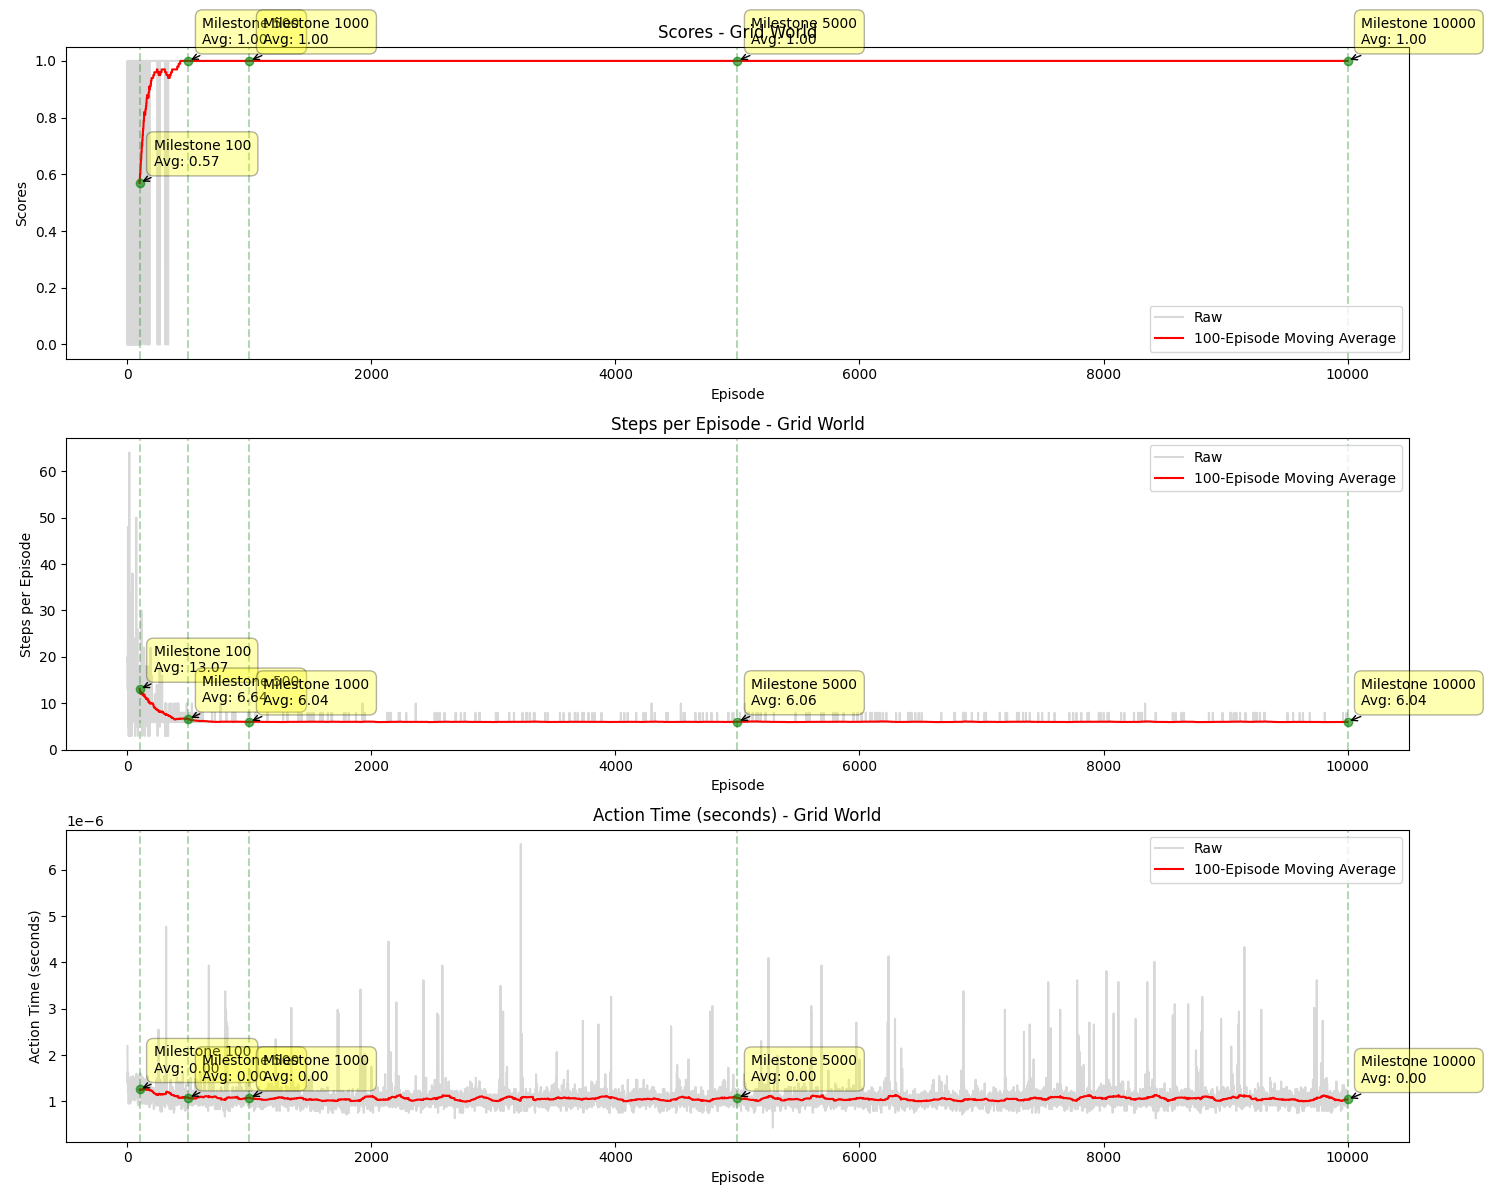
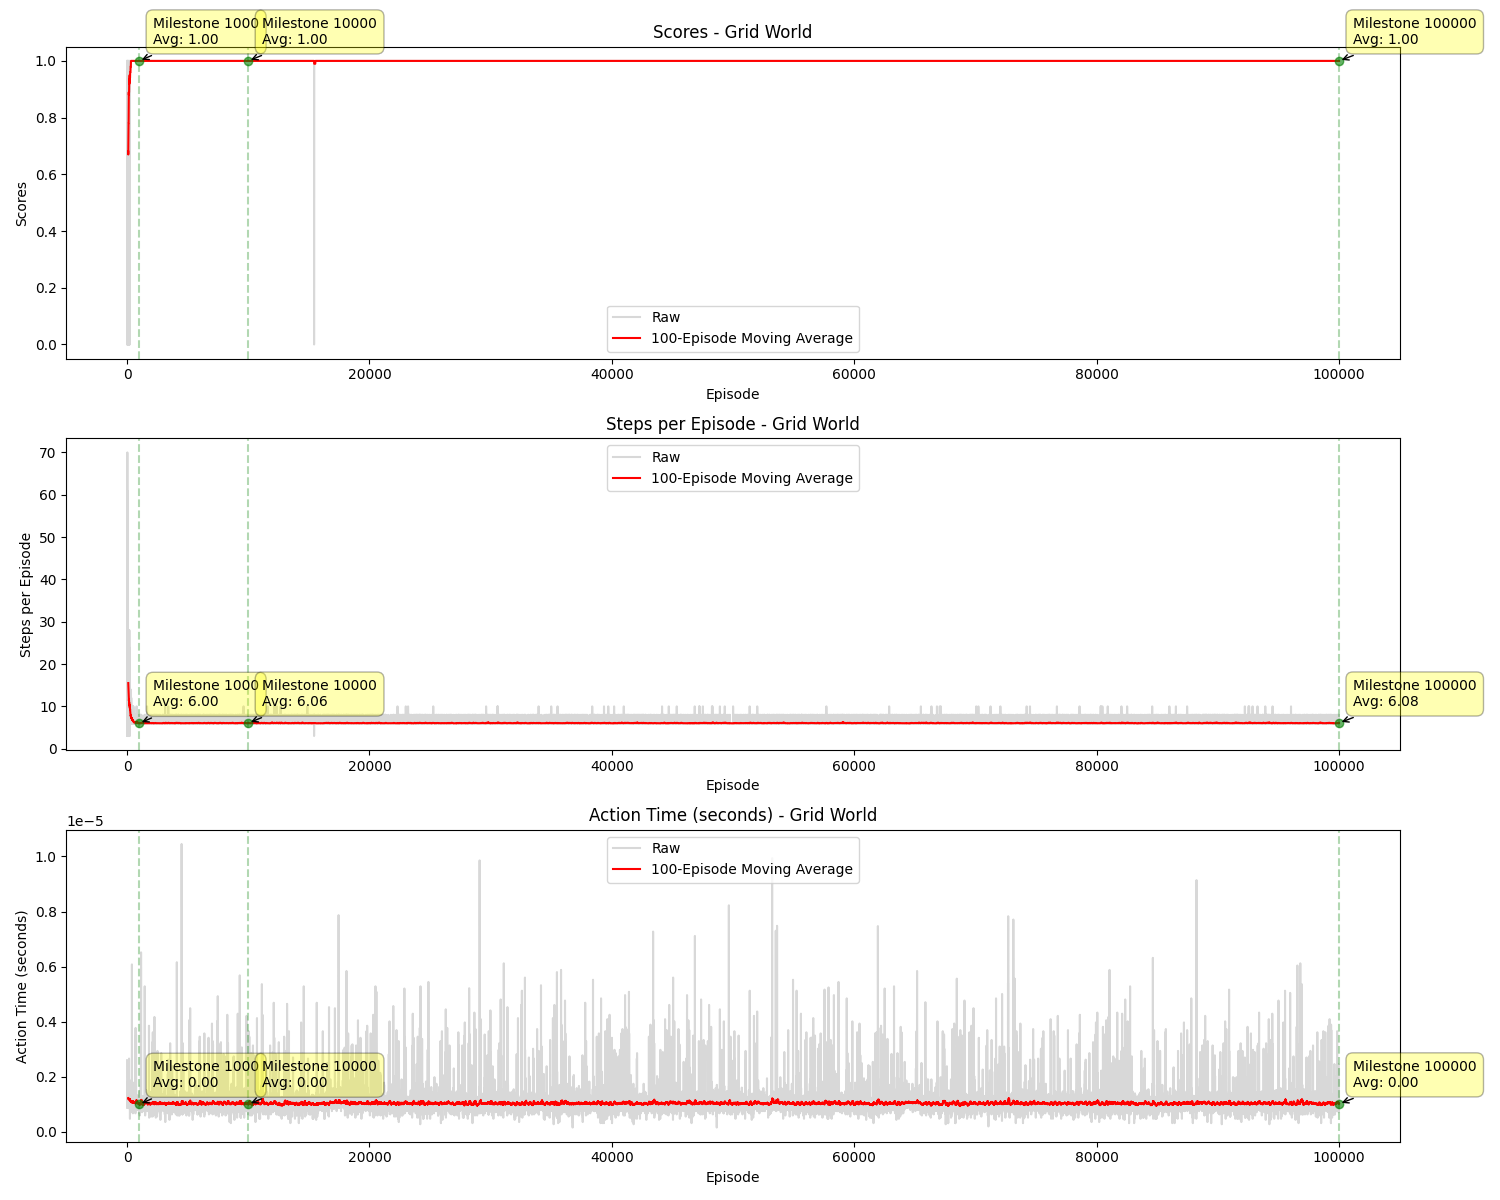
feat: update plots

diff --git a/examples/tab_q_learning_agent.py b/examples/tab_q_learning_agent.py
@@ -15,7 +15,6 @@ from src.environments.tic_tac_toe import TicTacToe
 def plot_metrics(data, title, env_name, window_size=100):
     plt.plot(data, color="gray", alpha=0.3, label="Raw")
 
-    # Calculate moving average
     moving_avg = np.convolve(data, np.ones(window_size) / window_size, mode="valid")
     plt.plot(
         range(window_size - 1, len(data)),
@@ -24,22 +23,21 @@ def plot_metrics(data, title, env_name, window_size=100):
         label=f"{window_size}-Episode Moving Average",
     )
 
-    # Add milestone markers
-    milestones = [100, 500, 1000, 5000, 10000]
+    milestones = [1000, 10000, 100000, 1000000]
     for milestone in milestones:
         if milestone <= len(data):
-            avg_value = np.mean(data[max(0, milestone - 100):milestone])
-            plt.axvline(x=milestone, color='green', linestyle='--', alpha=0.3)
-            plt.plot(milestone, avg_value, 'go', alpha=0.6)
+            avg_value = np.mean(data[max(0, milestone - 100) : milestone])
+            plt.axvline(x=milestone, color="green", linestyle="--", alpha=0.3)
+            plt.plot(milestone, avg_value, "go", alpha=0.6)
             plt.annotate(
-                f'Milestone {milestone}\nAvg: {avg_value:.2f}',
+                f"Milestone {milestone}\nAvg: {avg_value:.2f}",
                 xy=(milestone, avg_value),
                 xytext=(10, 10),
-                textcoords='offset points',
-                ha='left',
-                va='bottom',
-                bbox=dict(boxstyle='round,pad=0.5', fc='yellow', alpha=0.3),
-                arrowprops=dict(arrowstyle='->', connectionstyle='arc3,rad=0')
+                textcoords="offset points",
+                ha="left",
+                va="bottom",
+                bbox=dict(boxstyle="round,pad=0.5", fc="yellow", alpha=0.3),
+                arrowprops=dict(arrowstyle="->", connectionstyle="arc3,rad=0"),
             )
 
     plt.title(f"{title} - {env_name}")
@@ -48,7 +46,7 @@ def plot_metrics(data, title, env_name, window_size=100):
     plt.legend()
 
 
-def run_tab_q_learn_example(env_class, env_name, num_episodes=10000):
+def run_tab_q_learn_example(env_class, env_name, num_episodes=100000):
     env = env_class()
     learning_rate = 0.0005 * 2
     gamma = 0.99
@@ -97,11 +95,11 @@ def run_tab_q_learn_example(env_class, env_name, num_episodes=10000):
 
 
 def print_scores_at_milestones(scores, env_name):
-    milestones = [100, 500, 1000, 5000, 10000]
+    milestones = [1000, 10000, 100000, 1000000]
     print(f"\n{env_name} Scores at Milestones:")
     for milestone in milestones:
         if milestone <= len(scores):
-            avg_score = np.mean(scores[max(0, milestone - 100):milestone])
+            avg_score = np.mean(scores[max(0, milestone - 100) : milestone])
             print(f"Average score at episode {milestone}: {avg_score:.2f}")
 
 

diff --git a/examples/mcts_agent.py b/examples/mcts_agent.py
@@ -25,21 +25,21 @@ def plot_metrics(data, title, env_name, window_size=100):
     )
 
     # Add milestone markers
-    milestones = [100, 500, 1000, 5000, 10000]
+    milestones = [1000, 10000, 100000, 1000000]
     for milestone in milestones:
         if milestone <= len(data):
-            avg_value = np.mean(data[max(0, milestone - 100):milestone])
-            plt.axvline(x=milestone, color='green', linestyle='--', alpha=0.3)
-            plt.plot(milestone, avg_value, 'go', alpha=0.6)
+            avg_value = np.mean(data[max(0, milestone - 100) : milestone])
+            plt.axvline(x=milestone, color="green", linestyle="--", alpha=0.3)
+            plt.plot(milestone, avg_value, "go", alpha=0.6)
             plt.annotate(
-                f'Milestone {milestone}\nAvg: {avg_value:.2f}',
+                f"Milestone {milestone}\nAvg: {avg_value:.2f}",
                 xy=(milestone, avg_value),
                 xytext=(10, 10),
-                textcoords='offset points',
-                ha='left',
-                va='bottom',
-                bbox=dict(boxstyle='round,pad=0.5', fc='yellow', alpha=0.3),
-                arrowprops=dict(arrowstyle='->', connectionstyle='arc3,rad=0')
+                textcoords="offset points",
+                ha="left",
+                va="bottom",
+                bbox=dict(boxstyle="round,pad=0.5", fc="yellow", alpha=0.3),
+                arrowprops=dict(arrowstyle="->", connectionstyle="arc3,rad=0"),
             )
 
     plt.title(f"{title} - {env_name}")
@@ -82,7 +82,7 @@ def run_mcts_example(env_class, env_name, num_simulations=100, num_episodes=1000
 
 
 def print_scores_at_milestones(scores, env_name):
-    milestones = [100, 500, 1000, 5000, 10000]
+    milestones = [1000, 10000, 100000, 1000000]
     print(f"\n{env_name} Scores at Milestones:")
     for milestone in milestones:
         if milestone <= len(scores):
@@ -103,7 +103,7 @@ def main():
     ]:
         print(f"\nRunning MCTS on {env_name}...")
         scores, steps, times = run_mcts_example(
-            env_class, env_name, num_simulations=100, num_episodes=10000
+            env_class, env_name, num_simulations=100, num_episodes=100000
         )
 
 

diff --git a/examples/d_dqn_agent.py b/examples/d_dqn_agent.py
@@ -18,7 +18,7 @@ def moving_average(data, window_size):
     return np.convolve(data, np.ones(window_size) / window_size, mode="valid")
 
 
-def run_ddqn_example(env_class, env_name, num_episodes=10000):
+def run_ddqn_example(env_class, env_name, num_episodes=100000):
     env = env_class()
     state_size = len(env.state_vector())
     action_size = env.num_actions()
@@ -43,7 +43,7 @@ def run_ddqn_example(env_class, env_name, num_episodes=10000):
 
 
 def print_scores_at_milestones(scores, env_name):
-    milestones = [100, 500, 1000, 5000, 10000, 100000, 1000000]
+    milestones = [1000, 10000, 100000, 1000000]
     print(f"\n{env_name} Scores at Milestones:")
     for milestone in milestones:
         if milestone <= len(scores):

diff --git a/examples/d_dqn_pri_exp_replay_agent.py b/examples/d_dqn_pri_exp_replay_agent.py
@@ -42,7 +42,7 @@ def plot_metrics(data, metric_name, env_name):
     plt.grid(True)
 
 
-def run_ddqn_pri_exp_replay_example(env_class, env_name, num_episodes=10000):
+def run_ddqn_pri_exp_replay_example(env_class, env_name, num_episodes=100000):
     env = env_class()
     state_size = len(env.state_vector())
     action_size = env.num_actions()
@@ -74,7 +74,7 @@ def run_ddqn_pri_exp_replay_example(env_class, env_name, num_episodes=10000):
 
 
 def print_scores_at_milestones(scores, env_name):
-    milestones = [100, 500, 1000, 5000, 10000, 100000, 1000000]
+    milestones = [1000, 10000, 100000, 1000000]
     print(f"\n{env_name} Scores at Milestones:")
     for milestone in milestones:
         if milestone <= len(scores):

diff --git a/examples/deep_q_learning_agent.py b/examples/deep_q_learning_agent.py
@@ -17,7 +17,7 @@ def moving_average(data, window_size):
     return np.convolve(data, np.ones(window_size) / window_size, mode="valid")
 
 
-def run_dqn_example(env_class, env_name, num_episodes=10001):
+def run_dqn_example(env_class, env_name, num_episodes=100000):
     env = env_class()
     state_size = len(env.state_vector())
     action_size = env.num_actions()
@@ -140,7 +140,7 @@ def plot_metrics(data, metric_name, env_name):
 
 
 def print_scores_at_milestones(scores, env_name):
-    milestones = [100, 500, 1000, 5000, 10000, 100000, 1000000]
+    milestones = [1000, 10000, 100000, 1000000]
     print(f"\n{env_name} Scores at Milestones:")
     for milestone in milestones:
         if milestone <= len(scores):

diff --git a/examples/d_dqn_exp_replay_agent.py b/examples/d_dqn_exp_replay_agent.py
@@ -42,7 +42,7 @@ def plot_metrics(data, metric_name, env_name):
     plt.grid(True)
 
 
-def run_ddqn_exp_rep_example(env_class, env_name, num_episodes=10000):
+def run_ddqn_exp_rep_example(env_class, env_name, num_episodes=100000):
     env = env_class()
     state_size = len(env.state_vector())
     action_size = env.num_actions()
@@ -70,7 +70,7 @@ def run_ddqn_exp_rep_example(env_class, env_name, num_episodes=10000):
 
 
 def print_scores_at_milestones(scores, env_name):
-    milestones = [100, 500, 1000, 5000, 10000, 100000, 1000000]
+    milestones = [1000, 10000, 100000, 1000000]
     print(f"\n{env_name} Scores at Milestones:")
     for milestone in milestones:
         if milestone <= len(scores):
